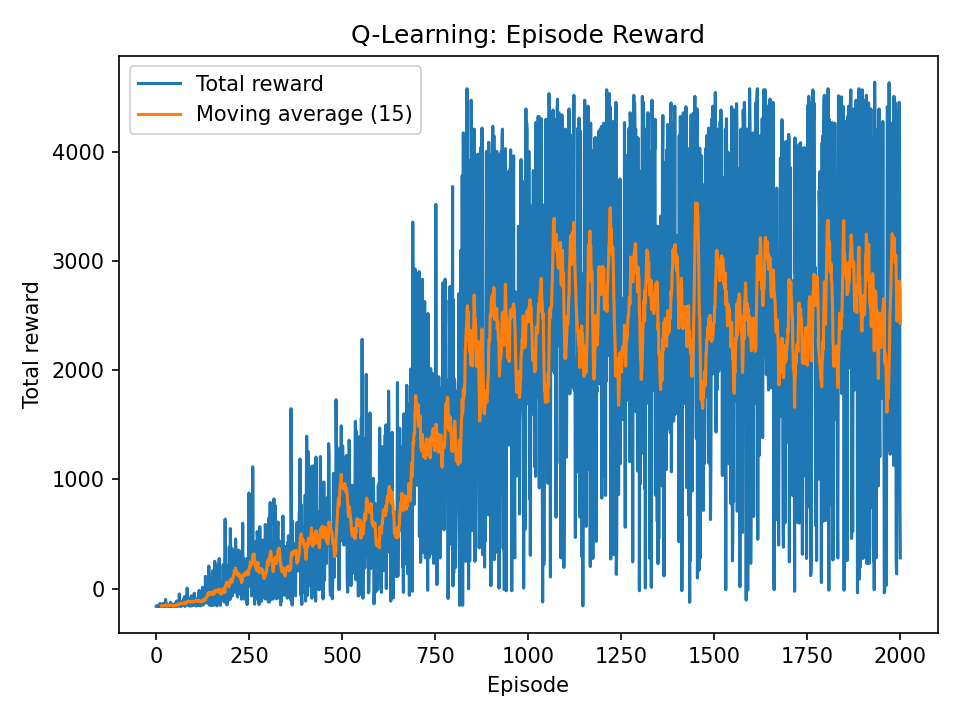
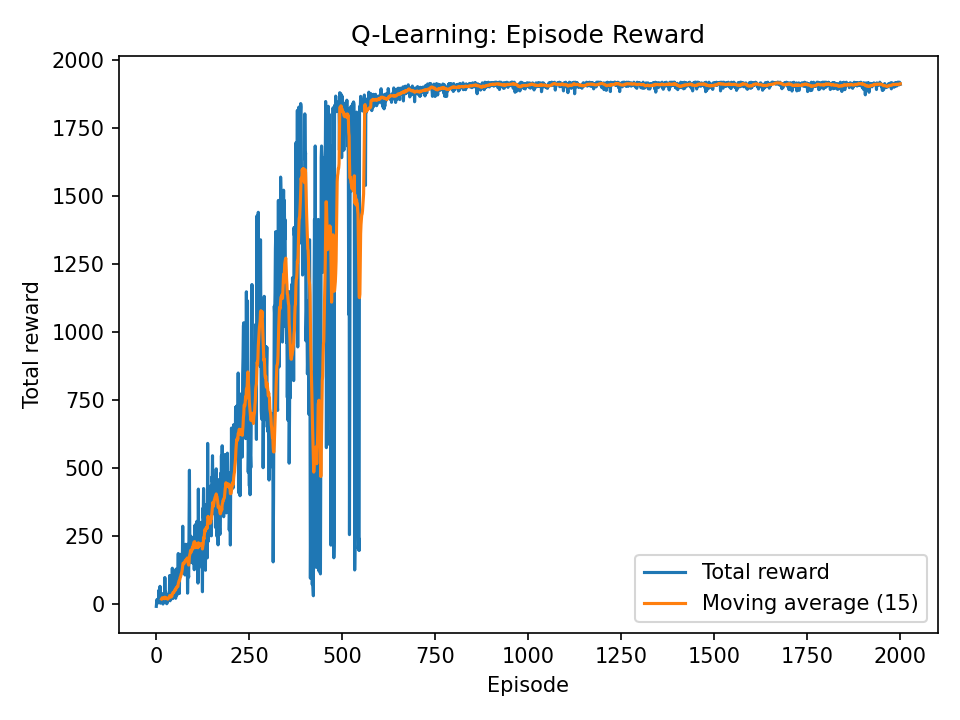
Finalised the configuration of the code.

diff --git a/q_learning.py b/q_learning.py
@@ -18,7 +18,7 @@ def choose_action(state: int, Q: np.ndarray, epsilon:float, n_actions: int, rng:
 # Main Q-learning training loop
 def train_q_learning(
     num_episodes: int = 2000,
-    max_steps_per_episode: int = 10000,
+    max_steps_per_episode: int = 5000,
     alpha: float = 0.1, # learning rate
     gamma: float = 0.99, # discount factor
     epsilon_start: float = 1.0, # initial exploration rate
@@ -123,7 +123,8 @@ def train_q_learning(
                 f"Avg Survival (50): {np.mean(episode_survival_ticks[-50:]):5.1f} | "
                 f"Epsilon: {epsilon:5.3f}"
             )
-        if (episode + 1) in (1, 25, 100, 500):
+        # Save Q-table at specific episodes
+        if (episode + 1) in (1, 5, 25, 500):
             np.save(f"Q_ep{episode+1:04d}.npy", Q)
 
     logs = {
@@ -172,7 +173,7 @@ def plot_metric_curve(
     print(f"Saved plot to: {filename}")
 
 # No learning, just demonstrate the learned policy
-def run_greedy_policy(Q: np.ndarray, max_steps: int = 100):
+def run_greedy_policy(Q: np.ndarray, max_steps: int = 5000):
     """
     Run one episode using the greedy policy (no exploration)
     to see how well the agent has learned in the Duke survival env.

diff --git a/duke_env.py b/duke_env.py
@@ -47,7 +47,7 @@ class DukeSurvivalEnv:
         max_steps: int = 300,
         start_hp: int = 2000,
         slam_damage: int = 20,
-        gaze_damage: int = 999,
+        gaze_damage: int = 100,
         step_reward: float = 1.0,
         death_penalty: float = -100.0,
         seed: int = 0,

diff --git a/playback.py b/playback.py
@@ -453,7 +453,7 @@ def main():
 
     # Choose snapshots to compare
     snap_a = "Q_ep0001.npy"
-    snap_b = "Q_ep0100.npy"
+    snap_b = "Q_ep0025.npy"
 
     Q_a = np.load(snap_a)
     Q_b = np.load(snap_b)
